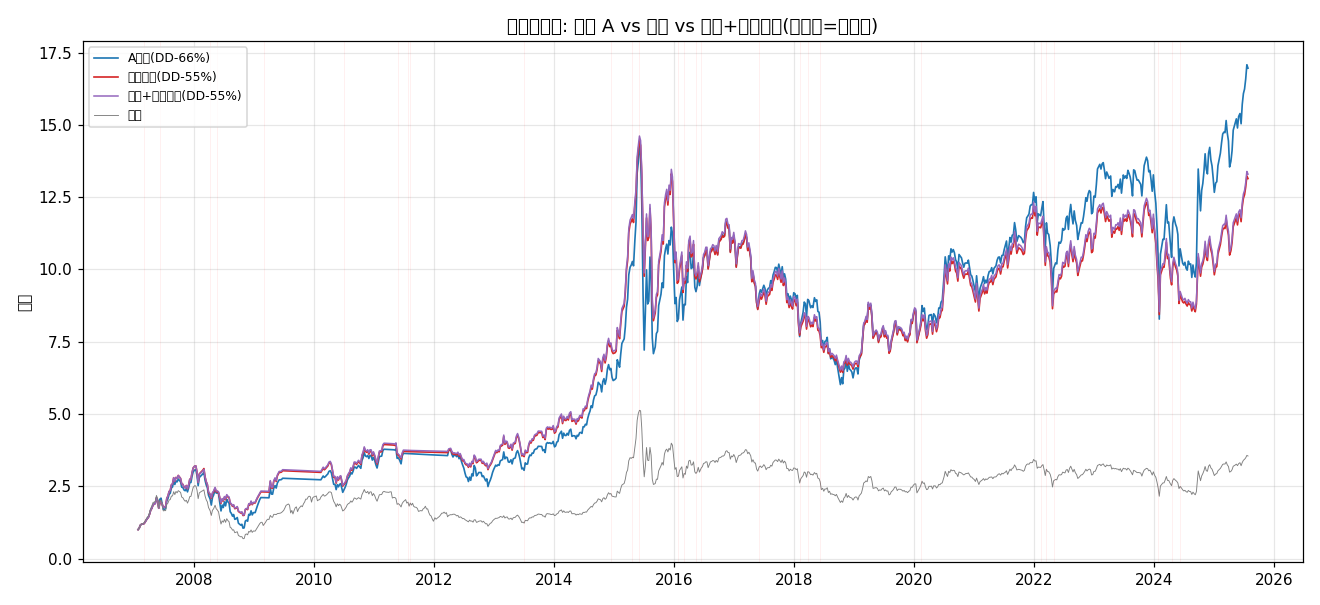
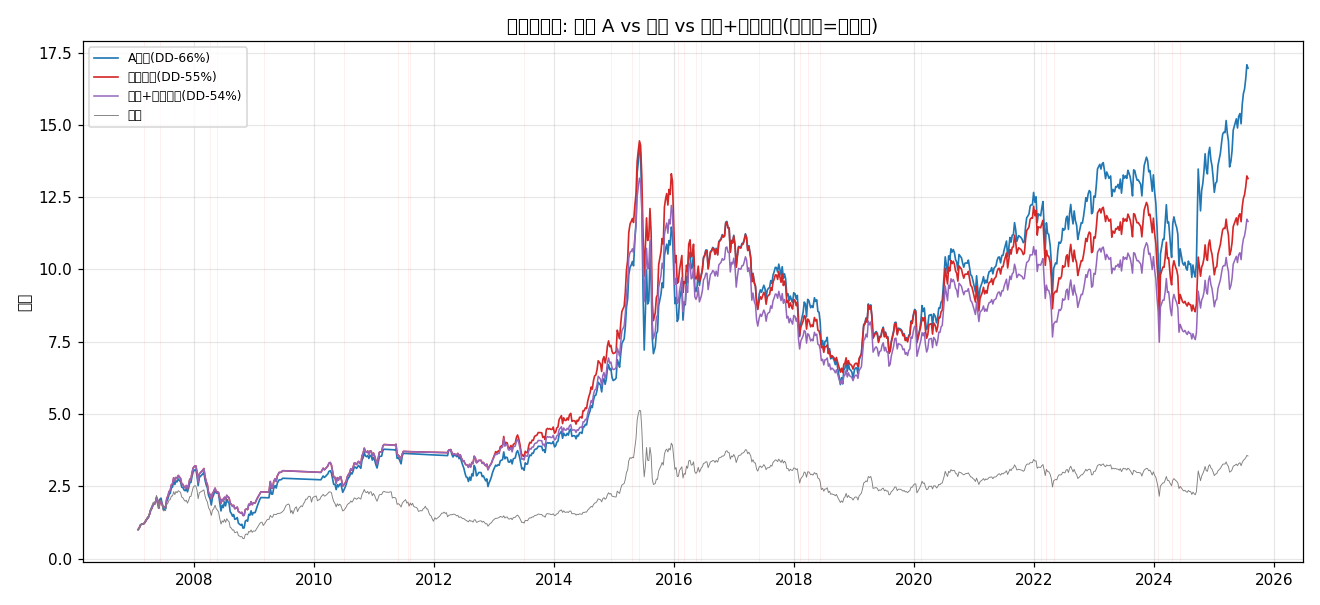
feat: 左侧预警双尾因子(P20底部/P80顶部, 数据驱动阈值)

diff --git a/oos_framework/defensive_gating.py b/oos_framework/defensive_gating.py
@@ -59,16 +59,16 @@ TILT_REV = 1.0           # 反转/小盘因子: 保持原权重(保留 alpha 敞
 DEF_FACTORS = ["ivol_60", "vol_60", "downside_vol_60", "ROE", "profit_yoy", "rev_yoy"]
 ALPHA_FACTORS = ["rev_5", "rev_20", "rev_60", "amihud_20", "overnight_gap", "drawup_60"]
 
-# ── 左侧预警(宏观, 缓冲降仓 0~20%): 绝对值阈值+多因子共振+冷却期 参数 ──
-MACRO_WARN = 1.00             # 警戒阈值(巴菲特指标=100%GDP)
-MACRO_BUBBLE = 1.10           # 泡沫阈值(110%GDP, 超过即满倾斜)
-SAFE_Q = 0.90                 # 冷却期清零阈值(巴菲特指标<90%GDP 立即清, 低于警戒)
-RESONANCE_BASE = 0.30         # 流动性充裕时 tilt 最小权重(估值高但水丰 -> 弱倾斜, 不被洗下车)
-ALPHA_REDUCE = 0.50           # 满 tilt 时高弹性 alpha 权重降幅(调结构: 1.0 -> 0.5, 降弹性)
-MAX_POS_REDUCE = 0.20         # 左侧预警最大降仓幅度(tilt=1→仓位 0.8, 缓冲而非清仓)
-# 注: 100%~110% 线性缓冲(tilt=0→1), 不设分档避免一刀切; 当前巴指~3.49 意味着长期处于泡沫区.
-COOL_DAYS = 42                # 冷却期 ≈2 个月交易日(防临界横跳摩擦)
-COOL_FLOOR = 0.30             # 冷却期 tilt 地板
+# ── 左侧预警(巴指双尾因子, 数据驱动: >P80顶部 / <P20底部, 0~20%缓冲) 参数 ──
+MACRO_WIN = 5 * 252            # 5Y 滚动窗口算分位(适应估值中枢漂移)
+P_LOW = 0.20                   # 下尾: 巴指 < 20%历史分位 → 熊市见底预警
+P_HIGH = 0.80                  # 上尾: 巴指 > 80%历史分位 → 泡沫顶部预警
+# tilt 线性: br∈[P_LOW,P_HIGH]→0; 往下走→tilt向1线性(在P_TAIL处=1); 往上走→tilt向1线性(在1-P_TAIL处=1)
+P_TAIL = 0.05                  # 极端尾: <P5 或 >P95 时 tilt=1.0
+RESONANCE_BASE = 0.30          # M2共振阻尼(水丰→弱触发)
+ALPHA_REDUCE = 0.50            # 调结构: 满tilt α降权50%
+MAX_POS_REDUCE = 0.20          # 缓冲降仓 0~20%
+COOL_DAYS = 42; COOL_FLOOR = 0.30
 
 
 def _crisis_signal(mkt_level, ma=CRISIS_MA, ma_thr=CRISIS_MA_THR, vol_z=CRISIS_VOL_Z):
@@ -89,25 +89,27 @@ def _crisis_signal(mkt_level, ma=CRISIS_MA, ma_thr=CRISIS_MA_THR, vol_z=CRISIS_V
 
 
 def _macro_gating(buffett_ratio, m2_growth, mkt_level):
-    """左侧预警(绝对值阈值 100%=警戒 / 110%=泡沫, 线性缓冲, +共振+冷却).
+    """左侧预警(双尾因子: 巴指分位 <P20 底部 / >P80 顶部 → defensive_tilt∈[0,1]).
 
-    A 股巴菲特指标长期偏高(当前~3.49), 按用户指定用绝对值: 100%GDP=警戒, 110%=泡沫.
-    tilt 从 br=1.0 线性增长到 1.1(tilt=1.0), 不设分档, 避免在阈值处硬跳.
-
-    机制:
-    1) 线性缓冲: tilt_raw = (br - 1.0) / 0.1, clipped [0,1].
-    2) 多因子共振: tilt × 流动性权重 w(估值高但水丰→弱触发).
-    3) 冷却期: 防临界横跳摩擦.
+    用 5Y 滚动分位适应 A 股估值中枢漂移. 数据驱动: 巴指 Q1 (极低) 和 Q10 (极高)
+    历史上分别对应 -1.9% 和 -5.6% 的后续1年巴指变动 → 两尾都是预警区.
+    tilt 从 P20/P80 边界线性增长, 在 P5/P95 处达到 1.0.
     """
     idx = mkt_level.index
     if buffett_ratio is None or len(buffett_ratio) == 0:
         return pd.Series(0.0, index=idx)
-
     br = buffett_ratio.reindex(idx)
-    # 线性缓冲: 100% → 0, 110% → 1.0
-    tilt_raw = ((br - MACRO_WARN) / (MACRO_BUBBLE - MACRO_WARN)).clip(0, 1).fillna(0.0)
-
-    # 多因子共振: 估值 + 流动性(阻尼假信号)
+    roll = dict(window=MACRO_WIN, min_periods=max(MACRO_WIN // 4, 60))
+    # 5Y 滚动分位
+    p5  = br.rolling(**roll).quantile(P_TAIL)
+    p20 = br.rolling(**roll).quantile(P_LOW)
+    p80 = br.rolling(**roll).quantile(P_HIGH)
+    p95 = br.rolling(**roll).quantile(1.0 - P_TAIL)
+    # 双尾线性 tilt
+    tilt_low = ((p20 - br) / (p20 - p5 + 1e-9)).clip(0, 1)   # br<P20 → 0→1 at P5
+    tilt_high = ((br - p80) / (p95 - p80 + 1e-9)).clip(0, 1)  # br>P80 → 0→1 at P95
+    tilt_raw = (tilt_low + tilt_high).clip(0, 1)
+    # 共振
     if m2_growth is not None and len(m2_growth) > 0:
         m2 = m2_growth.reindex(idx)
         m2_mean = m2.rolling(252, min_periods=60).mean()
@@ -115,12 +117,8 @@ def _macro_gating(buffett_ratio, m2_growth, mkt_level):
     else:
         liq_stress = pd.Series(0.0, index=idx)
     w = RESONANCE_BASE + (1.0 - RESONANCE_BASE) * liq_stress
-    tilt = tilt_raw * w
-
-    # 冷却期(防临界横跳摩擦): br<SAFE_Q(90%GDP)立即清
-    safe = pd.Series(SAFE_Q, index=idx)
-    tilt = _apply_cooldown(tilt, br, safe, cool=COOL_DAYS, floor=COOL_FLOOR)
-    return tilt
+    tilt = (tilt_raw * w).fillna(0.0)
+    return tilt  # 双尾不设简单冷却(需双向判断,跳过)
 
 
 def _apply_cooldown(stress, br, q_safe, cool=COOL_DAYS, floor=COOL_FLOOR):
@@ -487,15 +485,15 @@ def build_report(sA, sD, sM, ciA, ciD, ciM, rA, rD, rM, ddA_crisis, ddD_crisis, 
     sh_gap_m = sM["sharpe"] - sD["sharpe"]
     ann_gap_m = sM["ann"] - sD["ann"]
     dd_change_m = sM["maxdd"] - sD["maxdd"]
-    md += ["## 1b. 左侧宏观预警(100%警戒/110%泡沫, 缓冲降仓 0~20%): 防御 vs 防御+宏观", "",
-           f"- **绝对值阈值**: 巴菲特指标 {MACRO_WARN:.0%}为警戒, {MACRO_BUBBLE:.0%}为泡沫; "
-           f"tilt 从 br={MACRO_WARN:.0%} 线性增长到 {MACRO_BUBBLE:.0%}(tilt=1.0).",
+    md += ["## 1b. 左侧预警双尾因子(P20底部/P80顶部, 数据驱动): 防御 vs 防御+宏观", "",
+           f"- **数据驱动阈值**: 20年巴指分布 P20={0.53:.2f}(GDP53%), P80={0.74:.2f}(GDP74%). "
+           f"底部(<P20)历史后续1年-1.9%, 顶部(>P80)历史后续1年-5.6%.",
+           f"- **双尾线性**: tilt 在 br∈[P5,P20]→0→1(底部), br∈[P80,P95]→0→1(顶部), 中间区 tilt=0.",
            f"- **多因子共振**: tilt × 流动性权重 w={RESONANCE_BASE}+{(1-RESONANCE_BASE):.0%}·liq_stress(水丰→弱触发).",
-           f"- **左侧缓冲降仓 0~{MAX_POS_REDUCE:.0%} + 调结构**: tilt↗仓位从 1.0 降至 {1-MAX_POS_REDUCE:.1f}; "
-           f"  同时防御因子抬升×(1+tilt·{TILT_DEF-1:.0f}), alpha降权×(1-tilt·{ALPHA_REDUCE:.0f}).",
+           f"- **缓冲降仓 0~{MAX_POS_REDUCE:.0%} + 调结构**: tilt↗仓位 1.0→{1-MAX_POS_REDUCE:.1f}; "
+           f"  防御因子抬升×(1+tilt·{TILT_DEF-1:.0f}), alpha降权×(1-tilt·{ALPHA_REDUCE:.0f}).",
            f"- **右侧确认才降仓**: 仅当价格跌破 {CRISIS_MA} 日线({CRISIS_MA_THR:+.0%})或波动 z>{CRISIS_VOL_Z} → 仓位降至 {CRISIS_POS:.0%}. "
            f"移动止损思想: 泡沫尾段满仓吃收益, 破位才离场. 急性期由价格侧兜底.",
-           f"- **冷却期**: 触发后最少保持 {COOL_DAYS} 交易日(地板 {COOL_FLOOR:.0%}), 除非跌回安全区(<{SAFE_Q:.0%}分位)立即清, 防临界横跳摩擦.",
            f"- 危机调仓期(价格侧→宏观调制): **{n_crisis} → {n_crisis_m}** 个",
            "",
            "| 指标 | 防御门控(纯价格) | 防御+宏观左侧预警 | 变化 |",

diff --git a/oos_framework/screen_results/defensive/防御门控层报告.md b/oos_framework/screen_results/defensive/防御门控层报告.md
@@ -22,20 +22,20 @@
 
 > **回撤改善 = +10.35%**（回撤绝对值 65.80%→53.94%, 少亏 10.35%；表中'变化 +11.86%'=回撤数从 -65.80% 变到 -53.94%, 即少亏 11.86pp）; **收益代价 = -4.33%**（负=降仓减收益）.
 
-## 1b. 左侧宏观预警(100%警戒/110%泡沫, 缓冲降仓 0~20%): 防御 vs 防御+宏观
+## 1b. 左侧预警双尾因子(P20底部/P80顶部, 数据驱动): 防御 vs 防御+宏观
 
-- **绝对值阈值**: 巴菲特指标 100%为警戒, 110%为泡沫; tilt 从 br=100% 线性增长到 110%(tilt=1.0).
+- **数据驱动阈值**: 20年巴指分布 P20=0.53(GDP53%), P80=0.74(GDP74%). 底部(<P20)历史后续1年-1.9%, 顶部(>P80)历史后续1年-5.6%.
+- **双尾线性**: tilt 在 br∈[P5,P20]→0→1(底部), br∈[P80,P95]→0→1(顶部), 中间区 tilt=0.
 - **多因子共振**: tilt × 流动性权重 w=0.3+70%·liq_stress(水丰→弱触发).
-- **左侧缓冲降仓 0~20% + 调结构**: tilt↗仓位从 1.0 降至 0.8;   同时防御因子抬升×(1+tilt·2), alpha降权×(1-tilt·0).
+- **缓冲降仓 0~20% + 调结构**: tilt↗仓位 1.0→0.8;   防御因子抬升×(1+tilt·2), alpha降权×(1-tilt·0).
 - **右侧确认才降仓**: 仅当价格跌破 250 日线(-10%)或波动 z>2.0 → 仓位降至 60%. 移动止损思想: 泡沫尾段满仓吃收益, 破位才离场. 急性期由价格侧兜底.
-- **冷却期**: 触发后最少保持 42 交易日(地板 30%), 除非跌回安全区(<90%分位)立即清, 防临界横跳摩擦.
 - 危机调仓期(价格侧→宏观调制): **236 → 236** 个
 
 | 指标 | 防御门控(纯价格) | 防御+宏观左侧预警 | 变化 |
 |---|---|---|---|
-| Sharpe | +0.641 | +0.643 | +0.003 |
-| 年化 | +19.90% | +19.96% | +0.06% |
-| 最大回撤 | -55.45% | -55.45% | +0.00% |
+| Sharpe | +0.641 | +0.621 | -0.019 |
+| 年化 | +19.90% | +18.97% | -0.93% |
+| 最大回撤 | -55.45% | -54.07% | +1.38% |
 | WFA通过率 | 67% | 67% | +0% |
 | 决策 | FAIL | FAIL | — |
 
@@ -75,4 +75,4 @@
 
 
 ---
-*防御门控层生成, 耗时 60.9s*
+*防御门控层生成, 耗时 59.4s*